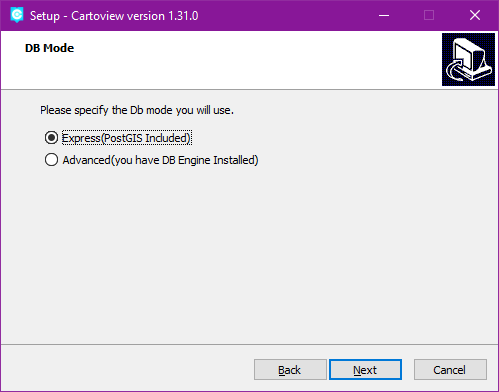
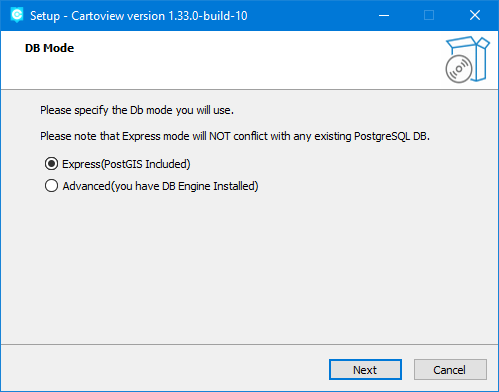
Upgrade to 1.33.0 (#233)
* Add Geonode Apps to Cartoview apps launcher

* Docker build locally (#231)

* Use separate environment file for postgis docker image

* Build image locally

* Use geonode docker build steps

* Update cherrypy to fix can't parse server.socket_host

* Add missing docker environment variables

* Update docs to 1.33.0 (#232)

* Update Cartoview version to 1.33.0 in docs

* Update windows installer docs

* Update install app image in docs

* Add troubleshooting section for the installer in docs

* Update docker installation to 1.33.0 in docs

* Fix old URL for apps page

* Bump to 1.33.0 final

* Fix what is missing in docs due to merge

Changed region(s): [[0.0, 0.0, 1.0, 1.0], [0.0902, 0.398, 0.5411, 0.4898], [0.0601, 0.3367, 0.8717, 0.3673]]

diff --git a/cartoview/app_manager/templates/app_manager/apps.html b/cartoview/app_manager/templates/app_manager/apps.html
@@ -1,5 +1,5 @@
 {% extends "app_manager/app_install_base.html" %}
-{% load bootstrap_tags staticfiles cartoview_tags %}
+{% load bootstrap_tags staticfiles cartoview_tags base_tags %}
 {% load i18n %}
 
 {% block title %} {{ block.super }} - {% trans "Applications" %} {% endblock %}
@@ -138,11 +138,64 @@
                             </div>
                         </div>
                     {% endif %}
-                    {% empty %}
-                    <div class="text-center">
-                        <h1>{% trans "No Apps Installed" %}</h1>
-                    </div>
+{#                    {% empty %}#}
+{#                    <div class="text-center">#}
+{#                        <h1>{% trans "No Apps Installed" %}</h1>#}
+{#                    </div>#}
                 {% endfor %}
+                {% with facet_type='geoapps' %}
+                {% facets as facets %}
+                <div class="flex-item">
+                    <div class="thumbnail">
+                        <img src="{% static 'app_manager/images/geonode-dashboard.png' %}" class="app-img">
+                        <div class="fill-empty flex-row">
+                            <h4 class="text-center">{% trans 'Geonode Dashboard' %}</h4>
+                            <p class="text-center">
+                                {% trans "Geonode Dashboard" %}
+                            </p>
+                            <div class="fill-empty">
+                            </div>
+                            <div class="text-center" style="display:flex;flex-wrap:wrap">
+                                <div id="card-buttons">
+                                    <a href="{% url "apps_browse" %}?limit={{ CLIENT_RESULTS_LIMIT }}&app_type__in=Dashboard"
+                                       target="_parent" class="btn btn-sm btn-primary">{% trans "Explore" %} <span
+                                            class="badge">{{ facets.Dashboard }}</span></a>
+                                </div>
+                                <div id="card-buttons">
+                                    <a class="btn btn-sm btn-primary" href="{% url "new_geoapp" %}?appType=Dashboard">
+                                        {% trans "Create New" %}
+                                    </a>
+                                </div>
+                            </div>
+                        </div>
+                    </div>
+                </div>
+                <div class="flex-item">
+                    <div class="thumbnail">
+                        <img src="" class="app-img">
+                        <div class="fill-empty flex-row">
+                            <h4 class="text-center">{% trans 'GeoStory' %}</h4>
+                            <p class="text-center">
+                                {% trans "GeoStory" %}
+                            </p>
+                            <div class="fill-empty">
+                            </div>
+                            <div class="text-center" style="display:flex;flex-wrap:wrap">
+                                <div id="card-buttons">
+                                    <a href="{% url "apps_browse" %}?limit={{ CLIENT_RESULTS_LIMIT }}&app_type__in=GeoStory"
+                                       target="_parent" class="btn btn-sm btn-primary">{% trans "Explore" %} <span
+                                            class="badge">{{ facets.GeoStory }}</span></a>
+                                </div>
+                                <div id="card-buttons">
+                                    <a class="btn btn-sm btn-primary" href="{% url "new_geoapp" %}?appType=GeoStory">
+                                        {% trans "Create New" %}
+                                    </a>
+                                </div>
+                            </div>
+                        </div>
+                    </div>
+                </div>
+                {% endwith %}
             </div>
         </div>
     </div>

diff --git a/setup.py b/setup.py
@@ -27,7 +27,6 @@ setup(
     install_requires=[
         'future', 'geonode==3.3.0',
         'Faker>=0.8.4',
-        'cherrypy==11.0.0',
-        'cheroot==5.8.3',
+        'cherrypy==18.6.1',
         'portalocker==1.3.0'
     ])

diff --git a/cartoview/__init__.py b/cartoview/__init__.py
@@ -1,4 +1,4 @@
-__version__ = (1, 33, 0, 'unstable', 0)
+__version__ = (1, 33, 0, 'final', 0)
 __compatible_with__ = []
 
 

diff --git a/docs/installation/windows-installer.md b/docs/installation/windows-installer.md
@@ -4,7 +4,7 @@
 ## Introduction
 Cartoview has a Windows installer that gives you an up and running instance, having Cartoview, GeoNode, GeoServer, and PostgreSQL (PostGIS) installed on the fly.
 
-This guide describes the steps of installing and running Cartoview installer **v1.31.0**.
+This guide describes the steps of installing and running Cartoview installer **v1.33.0**.
 
 --- 
 
@@ -15,16 +15,30 @@ The installer can be requested and downloaded from [here](https://cartoview.net/
 
 You just need to provide your information, select a version of Cartoview to download, and you should get an e-mail with the installer download link.
 
-!!! note
-    It's recommended to stick with the latest version which is selected by default.
-
-Download the installer on your Windows machine. You should get an executable file like that, **Cartoview_1.31.0.exe**.
+Download the installer on your Windows machine. You should get an executable file like that, **Cartoview_1.33.0.exe**.
 
 ### Installer Steps
 Proceed with the steps to install and run Cartoview.
 
 !!! note
     It's optional whether to stick with the default configurations during this installation or make changes according to your needs.
+
+Specify whether to use the database with **Express** mode which installs and runs PostgreSQL on the fly or **Advanced** mode which uses an already running instance of PostgreSQL on your machine.
+
+!!! note
+    If you select the **Advanced** mode, you will be required to provide the installation directory of PostgreSQL on your machine, the credentials and databases names.
+
+    ![Current running PostgreSQL directory](../img/installation/Installer/postgres-dir.png "Current running PostgreSQL directory")
+    
+    ![Current running PostgreSQL credentials](../img/installation/Installer/postgres-credentials.png "Current running PostgreSQL credentials")
+    
+    ![Cartoview Web Database](../img/installation/Installer/web-db.png "Cartoview Web Database")
+    
+    ![Cartoview GIS Database](../img/installation/Installer/gis-db.png "Cartoview GIS Database")
+
+We will stick with **Express** mode.
+
+![DB Mode](../img/installation/Installer/db-mode.png "DB Mode")
 
 Specify whether you want to use a **domain name** (e.g. localhost, example.com) or an **IP** (e.g. 192.168.10.1). We will stick with the default **domain name** to run on localhost.
 
@@ -40,14 +54,6 @@ PostgreSQL Port: Database port.
 ```
 
 ![Server Details](../img/installation/Installer/server-details.png "Server Details")
-
-Specify whether to use the database with **Express** mode which installs and runs PostgreSQL on the fly or **Advanced** mode which uses a running instance of PostgreSQL.
-
-If you select the **Advanced** mode, you will be required to provide the installation directory of PostgreSQL on your machine, the database server credentials (e.g. domain, port, username, and password) and databases names.
-
-We will stick with **Express** mode.
-
-![DB Mode](../img/installation/Installer/db-mode.png "DB Mode")
 
 Select location of installation on your machine.
 
@@ -78,13 +84,19 @@ And the [Admin](http://localhost:4040/docs/admin.html) page.
 
 Congratulations! Cartoview is now installed successfully.
 
-You can upload layers, create maps, and install Cartoview apps to visualize and interact with these maps.
+You can upload layers, create maps, and interact with the pre-installed Cartoview apps to visualize these maps.
+
+### Cartoview Apps
+
+Once Cartoview is installed, You can navigate to the [apps](http://localhost:4040/cv_apps/) page and explore the available pre-installed apps.
+
+![Cartoview Apps](../img/installation/Installer/apps.png "Cartoview Apps")
 
 ### Install Apps
 
-Once Cartoview is installed, You can navigate to [http://localhost:4040/apps/](http://localhost:4040/apps/) to check and install all available apps from the [App Store](https://appstore.cartoview.net/).
+Once Cartoview is installed, You can navigate to the [Manage Apps](http://localhost:4040/cv_apps/manage/) to check and install all available apps from the [App Store](https://appstore.cartoview.net/).
 
-After installing any app, you may need to restart the running **Apache Windows service** if you can't see your app in `/apps`.
+After installing any app, you may need to restart the running **Apache Windows service** if you can't see your app in the apps page.
 
 ![Services](../img/installation/Installer/services.png "Services")
 
@@ -102,14 +114,42 @@ For more information regarding Cartoview & GeoNode theming, please follow [this 
 
 ### Quick Links
 
-![Admin Configuration](../img/installation/Installer/admin-configuration-1.png "Quick Links")
+![Admin Configuration](../img/installation/Installer/admin.png "Quick Links")
 
 ### Admin Configuration
 
 You can find at the [Admin Configuration](http://localhost:4040/docs/docs.html) page the details of each installed service (e.g. Default credentials, Windows service name, and installed version).
 
-![Admin Configuration](../img/installation/Installer/admin-configuration-2.png "Installed Services")
+![Admin Configuration](../img/installation/Installer/admin-configuration-1.png "Installed Services")
 
 And a guide about how to publish Cartoview on a Windows server.
 
-![Publish Cartoview on Windows server](../img/installation/Installer/admin-configuration-3.png "Publish Cartoview on Windows server")
+![Publish Cartoview on Windows server](../img/installation/Installer/admin-configuration-2.png "Publish Cartoview on Windows server")
+
+---
+
+## Troubleshooting
+
+Sometimes, the installation of Cartoview Windows installer may fail due to different reasons. Here we will try to cover the potential errors and how to troubleshoot them.
+
+If you got an error like for instance, the site `http://localhost:4040/` can't be reached or failed to upload data to Cartoview or any other kind of errors, you will need to check the logs of Cartoview Windows services as the installer consists of three services, **Apache**, **PostgreSQL**, and **Tomcat**.
+
+![Cartoview Services](../img/installation/Installer/cartoview-services.png "Cartoview Services")
+
+These services must appear as **running** as shown above. If you find one that is not, you can try to start again.
+
+Right-click on a service and select start to start it again.
+
+![Restart Service](../img/installation/Installer/restart-service.png "Restart Service")
+
+Each service has its own log file and usually these logs should contain useful information for developers to acknowledge the current issue and may provide a fix.
+
+You can find each log file in the following directories.
+
+- **Apache**: `Cartoview/Apache24/logs/error.log`
+- **Tomcat**: `Cartoview/Tomcat 9.0/logs/catalina.out`
+
+!!! note
+    PostgreSQL doesn't have a log file by default. to enable it please check the PostgreSQL guide on [how to register event log on Windows](https://www.postgresql.org/docs/13/event-log-registration.html).
+
+If you got an error that you can't fix it on your own, please send the log files with a clear description about what happened exactly to [cartoview@cartologic.com](mailto:cartoview@cartologic.com).

diff --git a/docs/installation/windows.md b/docs/installation/windows.md
@@ -5,7 +5,7 @@
 
 This guide describes how to install and configure a fresh setup of Cartoview to run it in DEBUG mode (also known as DEVELOPMENT mode) on **Windows 10** 64-bit clean environment.
 
-This part of the documentation describes installation of **Cartoview-1.32.0** which comes with **GeoNode-3.2.1** and **GeoServer-2.18.2**.
+This part of the documentation describes installation of **Cartoview-1.33.0** which comes with **GeoNode-3.3.0** and **GeoServer-2.19.x**.
 
 !!! warning
     Those guides are not meant to be used on a production system. Instead, you can follow the [Docker](docker.md) guide.
@@ -253,10 +253,10 @@ As Cartoview is build on top of GeoNode, we need to install GeoNode first.
 
 Navigate inside ``cartoview_service`` directory and make sure ``cartoview_venv`` is still activated. 
 
-Clone [GeoNode-3.2.1](https://github.com/GeoNode/geonode/tree/3.2.1) from GitHub.
+Clone [GeoNode-3.3.0](https://github.com/GeoNode/geonode/tree/3.3.0) from GitHub.
 
 ```shell
-git clone -b 3.2.1 https://github.com/GeoNode/geonode.git
+git clone -b 3.3.0 https://github.com/GeoNode/geonode.git
 ```
 
 Edit `requirement.txt` and `setup.cfg` files commenting the **production** and **test** packages as they are not compatible with Windows environment.
@@ -269,9 +269,9 @@ pip install -e .
 
 ### Install Cartoview
 
-Download the latest version of cartoview by cloning the repository.
+Download Cartoview 1.33.0 version by cloning the repository and checkout the release tag.
 ```shell
-git clone -b v1.32.0 https://github.com/cartologic/cartoview.git
+git clone -b v1.33.0 https://github.com/cartologic/cartoview.git
 ```
 
 This will create a folder called ``cartoview`` inside ``cartoview_service``.
@@ -513,6 +513,6 @@ You can upload layers, create maps, and install Cartoview apps to visualize thes
     If you got an error like the following message while uploading a layer, make sure to remove the **PROJ_LIB** environment variable from Windows system environment variables.
     `RuntimeError: PROJ: proj_identify: C:\Program Files\PostgreSQL\13\share\contrib\postgis-3.1\proj\proj.db lacks DATABASE.LAYOUT.VERSION.MAJOR / DATABASE.LAYOUT.VERSION.MINOR metadata. It comes from another PROJ installation.`
 
-Once Cartoview is installed, You can navigate to [http://localhost:8000/apps/](http://localhost:8000/apps/) to check and install all available apps from the [App Store](https://appstore.cartoview.net/).
+Once Cartoview is installed, You can navigate to the [apps](http://localhost:8000/cv_apps/) page to check and install all available apps from the [App Store](https://appstore.cartoview.net/).
 
 After installing any app, you may need to restart the running django server if you can't see your app in `/apps`.

diff --git a/docs/installation/docker.md b/docs/installation/docker.md
@@ -4,7 +4,7 @@
 ## Introduction
 This guide describes how to install and configure a fresh setup of Cartoview to run it in Production mode using Docker on [**Ubuntu 20.04**](#for-ubuntu-2004) or [**Windows 10**](#for-windows-10).
 
-This part of the documentation describes installation of **Cartoview-1.31.0** which comes with **GeoNode-3.1** and **GeoServer-2.17.2**.
+This part of the documentation describes installation of **Cartoview-1.33.0** which comes with **GeoNode-3.3.0** and **GeoServer-2.19.x**.
 
 ---
 
@@ -65,24 +65,17 @@ Make sure that **Use Docker Compose V2** option is **unchecked** to avoid potent
 ## Cartoview Installation
 
 ### Running Cartoview Docker Services
-Download **cartoview-1.31.0** by cloning the repository and using the tag **v1.31.0**.
+Download **cartoview-1.33.0** by cloning the repository and using the tag **v1.33.0**.
 
 ```shell
-git clone -b v1.31.0 https://github.com/cartologic/cartoview.git
+git clone -b v1.33.0 https://github.com/cartologic/cartoview.git
 ```
 
-This will create a directory called ``cartoview``. Navigate inside it to install Cartoview with docker.
-
-Open `docker-compose.yml` and navigate to **cartoview** docker service and update as the following:
-```yaml
-# Change the line
-image: cartologic/cartoview:latest
-# With:
-image: cartologic/cartoview:1.31.0
-```
+This will create a directory called ``cartoview``. Navigate inside it to build and run Cartoview with docker.
 
 ```shell
 cd cartoview
+docker-compose build --no-cache
 docker-compose up -d
 ```
 
@@ -257,7 +250,7 @@ Congratulations! Cartoview is now installed successfully.
 
 You can upload layers, create maps, and install Cartoview apps to visualize these maps.
 
-Once Cartoview is installed, You can navigate to [http://10.5.0.4/apps/](http://10.5.0.4/apps/) to check and install all available apps from the [App Store](https://appstore.cartoview.net/).
+Once Cartoview is installed, You can navigate to the [apps](http://10.5.0.4/cv_apps/) page to check and install all available apps from the [App Store](https://appstore.cartoview.net/).
 
 After installing any app, you may need to restart cartoview docker services in order to install the app properly.
 ```shell

diff --git a/docs/installation/ubuntu.md b/docs/installation/ubuntu.md
@@ -4,7 +4,7 @@
 ## Introduction
 This guide describes how to install and configure a fresh setup of Cartoview to run it in DEBUG mode (also known as DEVELOPMENT mode) on **Ubuntu 20.04 LTS** 64-bit clean environment (Desktop or Server).
 
-This part of the documentation describes installation of **Cartoview-1.32.0** which comes with **GeoNode-3.2.1** and **GeoServer-2.18.2**.
+This part of the documentation describes installation of **Cartoview-1.33.0** which comes with **GeoNode-3.3.0** and **GeoServer-2.19.x**.
 
 !!! warning
     Those guides are not meant to be used on a production system. Instead, you can follow the [Docker](docker.md) guide.
@@ -206,10 +206,10 @@ mkvirtualenv --python=python3.8 cartoview_venv
 !!! warning
     Make sure you're inside ``cartoview_service`` directory and the ``cartoview_venv`` is still activated.
 
-Download the latest version of cartoview by cloning the repository.
+Download Cartoview 1.33.0 version by cloning the repository and checkout the release tag.
 
 ```shell
-git clone https://github.com/cartologic/cartoview.git
+git clone -b v1.33.0 https://github.com/cartologic/cartoview.git
 ```
 
 This will create a folder called ``cartoview`` inside ``cartoview_service`` directory.
@@ -386,6 +386,6 @@ Congratulations! Cartoview is now installed successfully.
 
 You can upload layers, create maps, and install Cartoview apps to visualize these maps.
 
-Once Cartoview is installed, You can navigate to [http://localhost:8000/apps/](http://localhost:8000/apps/) to check and install all available apps from the [App Store](https://appstore.cartoview.net/).
+Once Cartoview is installed, You can navigate to the [apps](http://localhost:8000/cv_apps/) to check and install all available apps from the [App Store](https://appstore.cartoview.net/).
 
 After installing any app, you may need to restart the running django server if you can't see your app in `/apps`.

diff --git a/docs/installation/cartoview-project.md b/docs/installation/cartoview-project.md
@@ -22,10 +22,10 @@ mkvirtualenv --python=python3.8 cartoview_project_venv
 pip install Django==3.2
 ```
 
-Clone [cartoview-project](https://github.com/cartologic/cartoview-project) and use the branch according to the version you want to. Here,  we will use [3.2.x](https://github.com/cartologic/cartoview-project/tree/3.2.x).
+Clone [cartoview-project](https://github.com/cartologic/cartoview-project) and use the branch according to the version you want to. Here,  we will use [3.3.x](https://github.com/cartologic/cartoview-project/tree/3.3.x).
 
 ```shell
-git clone https://github.com/GeoNode/cartoview-project.git -b 3.2.x
+git clone https://github.com/GeoNode/cartoview-project.git -b 3.3.x
 ```
 
 This will create a folder called `cartoview-project` from which the custom project will be generated.

diff --git a/docs/install-app.md b/docs/install-app.md
@@ -4,8 +4,8 @@
 !!! note
     These steps works ONLY if Cartoview is up and running.
 
-- To install apps from [GeoApp Market](https://appstore.cartoview.net/):
+To install apps from [GeoApp Market](https://appstore.cartoview.net/):
+
+Go to ``Apps`` tab, click ``Manage Apps`` button, and install the app you want.
     
-    Go to ``Apps`` tab, click ``Manage Apps`` button, and install the app you want.
-    
-    ![Install App](img/install_app.png "Install App")
+![Install App](img/manage-apps.png "Install App")
